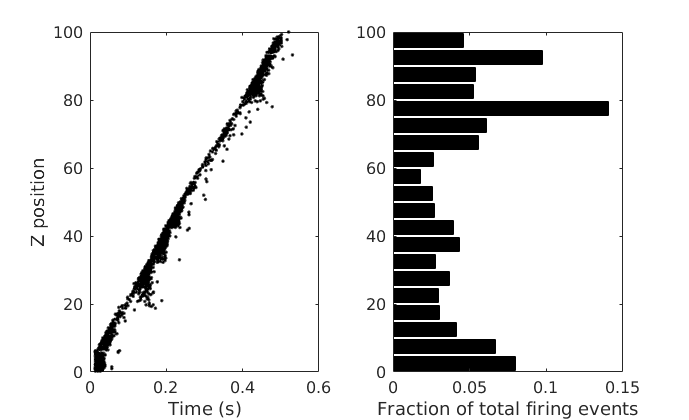
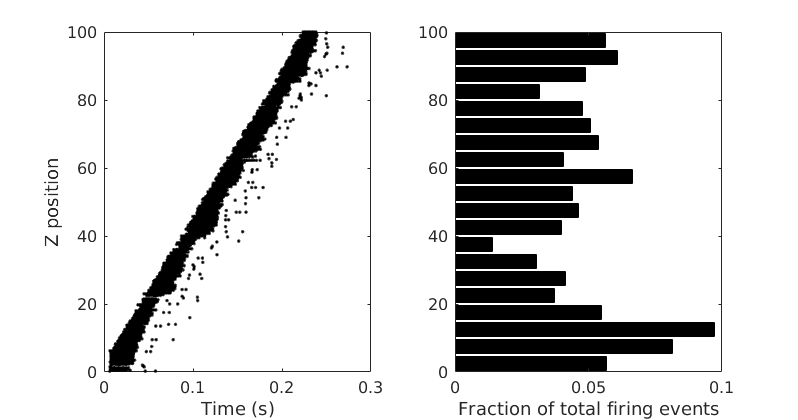
Edited section on LTS inhibitory triggers including new results. Note that connectivity parameter C is 1.0 in these results, it's 0.5 in the rest of the work.

diff --git a/sync_paper/Delay synchronization.tex b/sync_paper/Delay synchronization.tex
@@ -189,7 +189,9 @@ Finally, we examine fully-connected networks and observe that traveling wave pat
 \subsection{Conditions for traveling waves} \label{sub:waves}
 We first explore which parameterizations of our model will support traveling waves.
 Waves are detected as described in Methods, and we use the wave firing fraction metric to determine for which parameter values our model will produce traveling waves.
+We fix the connection normalization constant $C$ in equation \ref{eq:connectivity} to $0.5$ and we fix the stimulus strength $M$ in equation \ref{eq:randomstim} to $5$.
 The key parameters to be examined are the connection strength $K$, the characteristic connection length $\lambda$, the fraction of excitatory neurons $P_{exc}$ and the delay parameter $\kappa$.
+
 First we establish that traveling waves are observed at the fixed point $\Sigma = \{K=10,\lambda=2.5,P_{exc}=0.8,\kappa=1.0 \}$.
 We then vary the individual parameters about about $\Sigma$ to examine how they influence traveling wave formation.
 
@@ -259,7 +261,8 @@ Our exploration of wave speed uses a step stimulus applied to the lowest 10 laye
 We then measure the time for the wave to propagate to the top layer to determine the pace in milliseconds per unit traveled.
 The speed can then be calculated as the inverse of the pace in units/millisecond.
 
-The model parameters were first fixed at $\Sigma = \{K=10,\lambda=2.5,P_{exc}=0.8,\kappa=1.0 \}$ as in the preceding section.
+We fix the connection normalization constant $C$ in equation \ref{eq:connectivity} to $0.5$ and we fix the stimulus strength $M$ in equation \ref{eq:randomstim} to $5$ and do not vary them.
+The other model parameters were first fixed at $\Sigma = \{K=10,\lambda=2.5,P_{exc}=0.8,\kappa=1.0 \}$ as in the preceding section.
 We do not observe traveling waves that span the column with these parameters.
 Without the uniform background stimulus the neurons in the column are at their equilibrium point when the traveling wave arrives, and it takes a stronger stimulus from the passing wave to elicit a spike.
 We increased the connection strength $K$ to provide this stronger stimulus, and found that traveling waves that span the column are found starting at $K=18$. 
@@ -301,45 +304,59 @@ At $\lambda<2.5$ traveling waves were not observed.
 
 
 \subsection{Wave Initiation and Density} \label{sub:wave_initiation}
-We have observed preferential wave initiation sites in our experiments.
+Traveling waves spawned by uniform background stimulation do not appear to originate at random places in the column.
+Instead we observe that, for a given randomly generated column, waves tend to spawn from certain locations within the column.
+This was most noticeable for columns with very dense local connectivity with $C=1.0$ in equation \ref{eq:connectivity}.
+To quantify this observation we recorded the initiation sites of all traveling waves that were observed in a column under uniform background stimulus (Figure \ref{fig:wave_initiation_sites}).
+
+\begin{figure}[!htb]
+ \caption{Left: The time and place of origin of every traveling wave produced during a simulation. Right: The histogram of wave initiation sites clearly shows that traveling waves are likely to start in some regions, and unlikely to start in others.}
+ \label{fig:wave_initiation_sites}
+ \centering
+   \includegraphics[width=\textwidth]{fig/InitiationSites_100sims}
+\end{figure}
+
+In general only some of the neurons in the column will fire when a wave passes.
+We observed that a single traveling wave can have regions of higher or lower total firing activity, which we term firing density.
+An example measurement of the firing density in a single traveling wave is shown in Figure \ref{fig:wave_density}.
+\begin{figure}[!htb]
+ \caption{Density of firing events in a traveling wave initiated from a step stimulus. Left: Raster plot of the spike-emission times from a single traveling wave. Right: a histogram of firing events by position shows the density of the wave.}
+ \label{fig:wave_density}
+ \centering
+   \includegraphics[width=\textwidth]{fig/ImpulseWaveDensity}
+\end{figure}
+
+In our experiments we observe an anti-correlation between the preferential wave initiation sites and the wave density for a column.
+The wave initiation sites and wave density of the same column are shown in figure \ref{fig:initiation_density}.
+This visually indicates that the preferential firing sites tend towards lower firing density in the single wave experiments.
+\begin{figure}[!htb]
+ \caption{Wave initiation (left) and wave density (right) for the same column.}
+ \label{fig:initiation_density}
+ \centering
+   \includegraphics[width=\textwidth]{fig/InitiationCorrelationHistogram}
+\end{figure}
+
+To test this hypothesis we create 100 columns, applied first uniform background stimulus and then step stimulus to each column, and measured the correlation between wave initiation and firing density at the positions of the column.
+Although there is substantial variation between columns we measure a consistently negative correlation coefficient (mean $-0.32$, standard deviation $0.16$).
+This demonstrates a consistent, negative correlation between wave initiation sites and wave density.
+
 We hypothesize that these preferential initiation sites are created by neurons with low firing thresholds that are easy to excite.
 In the Izhikevich model, inhibitory neurons can have a lower firing threshold than excitatory neurons, modeling the behavior of real inhibitory neurons in the cortex\cite{gibson2009}\cite{hayut2011}.
 The $b$ parameter in the Izhikevich model sets the firing threshold of the individual neurons.
 Neurons with higher $b$ parameter are easier to excite and therefore more likely to fire.
 Per Table \ref{tab:izzy_params} excitatory neurons all have a $b$ parameter of $0.2$, while inhibitory neurons have $b$ parameters in the range $0.2-0.25$.
-This indicates the preferential wave initiation sites would be due to low-threshold spiking (LTS) inhibitory neurons \cite{izhikevich2003}.
+This indicates the preferential wave initiation sites could be due to low-threshold spiking (LTS) inhibitory neurons \cite{izhikevich2003}.
 It may seem counter-intuitive that firing activity from an \underline{inhibitory} neuron would generate traveling waves.
 In fact, postinhibitory rebound spiking is observed in both cortical neurons \cite{ascoli2010} and the Izhikevich model of neuron dynamics \cite{izhikevich}.
+The LTS hypothesis also explains the reduced wave density at these sites.
+As a traveling wave passes through the region, these same inhibitory neurons suppress the surrounding neurons resulting in fewer local firing events.
 
-In general only some of the neurons in the column will fire when a wave passes.
-We observed that a single traveling wave can have regions of higher or lower total firing activity, which we term firing density.
-An example measurement of the firing activity in a single traveling wave is shown in Figure \ref{fig:wave_density}.
-\begin{figure}[!htb]
- \caption{Density of firing events in a traveling wave initiated from a step stimulus. The traveling wave is shown on the left, a histogram of firing events by position is shown on the right.}
- \label{fig:wave_density}
- \centering
-   \includegraphics[width=0.75\textwidth]{fig/ImpulseWaveDensity}
-\end{figure}
-
-The wave initiation sites and wave density of the same column are shown in figure \ref{fig:initiation_density}.
-This visually illustrates that the preferential firing sites tend towards lower firing density in the single wave experiments.
-\begin{figure}[!htb]
- \caption{Wave initiation (left) and wave density (right) for the same column.}
- \label{fig:initiation_density}
- \centering
-   \includegraphics[width=0.75\textwidth]{fig/InitiationCorrelationHistogram}
-\end{figure}
-
-To test this hypothesis we create 100 columns, applied both uniform background stimulus and step stimulus to each column, and measured the correlation between wave initiation and firing density at the positions of the column.
-Although there is substantial variation between columns we measure a consistently negative correlation coefficient (mean $-0.18$, standard deviation $0.20$).
-We expect that the lower firing density is caused by the low-threshold inhibitory neurons at those sites that are responsible for generating traveling waves under uniform background stimulus.
-
-A comparative experiment shows that low-threshold spiking inhibitory neurons can generate traveling waves under background stimulus.
+A comparative experiment shows that low-threshold spiking inhibitory neurons can indeed generate traveling waves under background stimulus.
 We first created a column with entirely excitatory neurons.
 We then created an identical column except for a single LTS inhibitory neuron at $Z=50$.
-The $b$ parameter of the LTS inhibitory neuron was set to $0.25$, the lowest firing threshold used in our model.
-These columns were stimulated with a uniform background stimulus. 
-Figure \ref{fig:lts_inhibit} clearly shows that adding the single LTS neuron creates traveling waves emanating from $Z=50$. 
+The $b$ parameter of the LTS inhibitory neuron was set to $0.25$, corresponding to the lowest firing threshold used in our model.
+These two columns were stimulated with a uniform background stimulus. 
+Figure \ref{fig:lts_inhibit} clearly shows that adding the single LTS neuron results in traveling waves emanating from $Z=50$. 
 \begin{figure}[!htb]
  \caption{Experiment with a single LTS inhibitory neuron at $Z=50$. Left: a column with entirely excitatory neurons shows traveling waves emerging from various locations. Right: adding a single LTS neuron at $Z=50$ results in consistent wave generation from that location. }
  \label{fig:lts_inhibit}

diff --git a/sim/lsm/SingleWaveCharacterization.m b/sim/lsm/SingleWaveCharacterization.m
@@ -24,7 +24,7 @@ connectivity.percentExc = 0.8;
 connectivity.connType = 1;
 connectivity.lambda = 2.5;
 connectivity.maxLength = 100;
-connectivity.connStrength = 10;
+connectivity.connStrength = 16;
 
 dt = 0.2;
 tmax = 2000;
@@ -49,7 +49,7 @@ waveSizes = []; waveFractions = []; waveSlopes = [];
 vall = []; uall = [];
 min_ccf = 1;
 n_ccf = 1;
-for jj=1:20
+for jj=1:100
     %[pt, v, firings, hb] = ImpulseResponse(2, 1);
     %Make column
     [a,b,c,d, S, delays, ecn] = makeColumnParameters(structure, connectivity, delay);
@@ -72,7 +72,7 @@ for jj=1:20
         uinit=b.*vinit;                 % Initial values of u
 
         %Column impulse response
-        [v, vall, u, uall, firings] = izzy_net(vinit,uinit,dt, length(t), a, b, c, d, S.*2.5, delays, stImpulse);
+        [v, vall, u, uall, firings] = izzy_net(vinit,uinit,dt, length(t), a, b, c, d, S, delays, stImpulse);
         %figure; plot(firings(:,1)./1000, firings(:,2)/(width*height),'k.');
         fscale = firings(:,2)/(width*height);
         [bins, edges] = histcounts(fscale, 0:layers/nbins:layers );

diff --git a/sim/lsm/makeColumnParameters.m b/sim/lsm/makeColumnParameters.m
@@ -104,7 +104,8 @@ for jj=1:length(x)
         if dis > 0
             %cp = rand() < exp(-(dis/lambda)^2);
             if connType == 1 
-                cp = rand() < 0.5*exp(-(dis/lambda)^2);
+                %cp = rand() < 0.5*exp(-(dis/lambda)^2);
+                cp = rand() < exp(-(dis/lambda)^2);
                 if dis>maxLength
                    cp = 0; 
                 end
